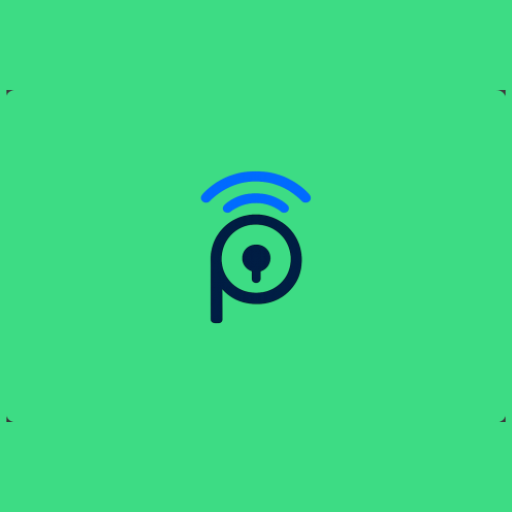
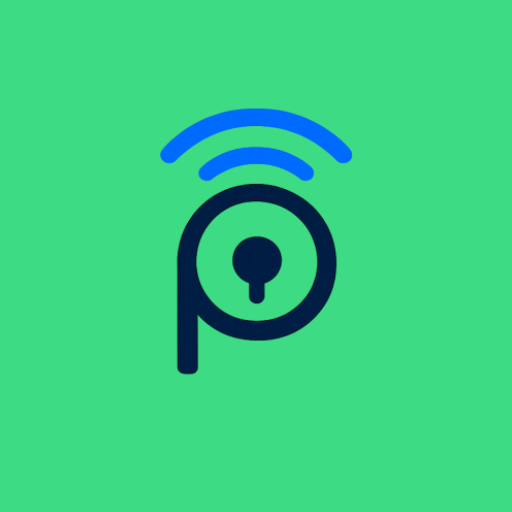
feat: fix LoginScreen crash, update background color to #fdfdfd and bump version to 1.18.9

Changed region(s): [[0.3125, 0.1875, 0.6875, 0.75]]

diff --git a/app/src/main/java/lab/sabily/pulseid/ui/LoginScreen.kt b/app/src/main/java/lab/sabily/pulseid/ui/LoginScreen.kt
@@ -40,7 +40,7 @@ fun LoginScreen(
         horizontalAlignment = Alignment.CenterHorizontally
     ) {
         Image(
-            painter = painterResource(id = R.mipmap.pulseid),
+            painter = painterResource(id = R.mipmap.pulseid_foreground),
             contentDescription = "PulseID Logo",
             modifier = Modifier.size(120.dp)
         )

diff --git a/app/src/main/java/lab/sabily/pulseid/ui/theme/Color.kt b/app/src/main/java/lab/sabily/pulseid/ui/theme/Color.kt
@@ -9,4 +9,4 @@ val Pink80 = Color(0xFFEFB8C8)
 val Purple40 = Color(0xFF6650a4)
 val PurpleGrey40 = Color(0xFF625b71)
 val Pink40 = Color(0xFF7D5260)
-val AppBackground = Color(0xFFFBFBFB)
+val AppBackground = Color(0xFFFDFDFD)
